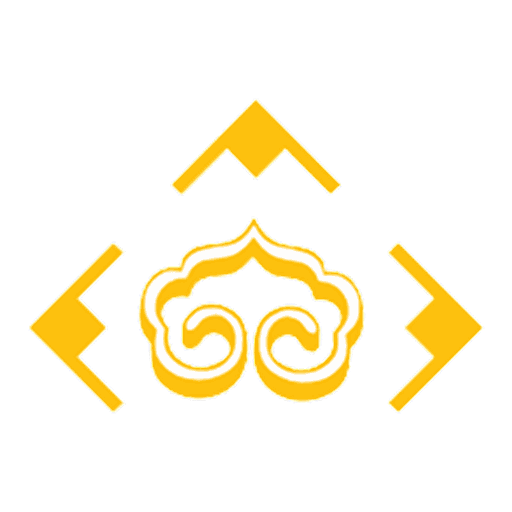
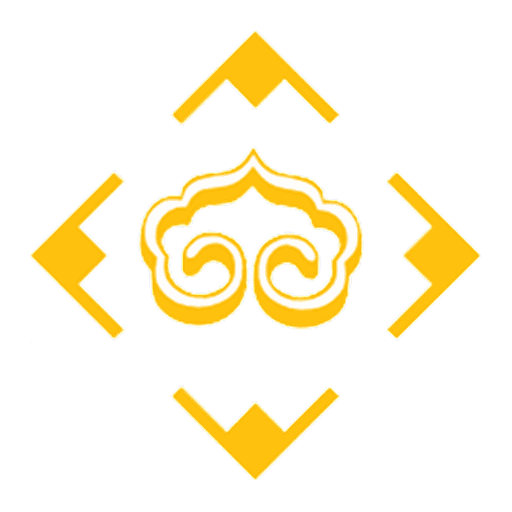
fix(brand): G3-03 biểu tượng PMH đủ hình thoi (hết bị cắt góc dưới ở sidebar)
Bản cũ cắt ngay trên chữ 'Phu My Hung' nên mất góc dưới của hình thoi, trông
như logo bị cắt. Dựng lại từ logo gốc 1920px: góc dưới = lật dọc góc trên quanh
tâm hình thoi (góc thật bị chữ che). Sinh lại emblem png/webp + favicon/icon
cùng nguồn. Sidebar 32x32, card đăng nhập hẹp 64px.

Kiểm: vitest brand-logo.test (mới — kích thước khai trong code khớp IHDR file,
emblem gần vuông; đỏ với ảnh cũ), app-shell.test, auth-ux.test.

Claude-Session: https://claude.ai/code/session_01DnG5SNKResTWi3MMKEHPDb

Changed region(s): [[0.0625, 0.0625, 0.7188, 0.9375], [0.75, 0.3438, 0.9375, 0.8125]]

diff --git a/web/src/ui/brand-logo.test.tsx b/web/src/ui/brand-logo.test.tsx
@@ -1,0 +1,35 @@
+import { readFileSync } from 'node:fs';
+import { join } from 'node:path';
+import type { ReactElement } from 'react';
+import { render } from '@testing-library/react';
+import { describe, expect, it } from 'vitest';
+import { BrandEmblem, BrandLogo } from './brand-logo';
+
+/** Kích thước thật đọc từ khối IHDR của PNG (byte 16..23). */
+function pngSize(file: string): { width: number; height: number } {
+  const buf = readFileSync(join(__dirname, '../../public/brand', file));
+  return { width: buf.readUInt32BE(16), height: buf.readUInt32BE(20) };
+}
+
+function imgOf(ui: ReactElement): HTMLImageElement {
+  return render(ui).container.querySelector('img')!;
+}
+
+describe('ảnh thương hiệu', () => {
+  // width/height khai trong code giữ chỗ trước khi ảnh về; lệch với file thật thì ảnh bị méo.
+  it.each([
+    ['pmh-emblem.png', <BrandEmblem key="e" alt="" />],
+    ['pmh-logo.png', <BrandLogo key="l" alt="" />],
+  ] as const)('%s: width/height khai trong code khớp file', (file, ui) => {
+    const img = imgOf(ui);
+    const real = pngSize(file);
+    expect(Number(img.getAttribute('width'))).toBe(real.width);
+    expect(Number(img.getAttribute('height'))).toBe(real.height);
+  });
+
+  // Biểu tượng là hình thoi đủ bốn góc nên gần vuông; bản cắt mất góc dưới thì dẹt hẳn.
+  it('biểu tượng gần vuông (đủ góc dưới của hình thoi)', () => {
+    const { width, height } = pngSize('pmh-emblem.png');
+    expect(Math.abs(width - height) / height).toBeLessThan(0.05);
+  });
+});

diff --git a/web/src/ui/brand-logo.tsx b/web/src/ui/brand-logo.tsx
@@ -9,7 +9,7 @@
  * nghe tên hai lần.
  */
 const LOGO = { base: '/brand/pmh-logo', width: 480, height: 354 };
-const EMBLEM = { base: '/brand/pmh-emblem', width: 256, height: 178 };
+const EMBLEM = { base: '/brand/pmh-emblem', width: 191, height: 192 };
 
 function BrandPicture({
   asset,
@@ -43,7 +43,10 @@ export function BrandLogo(props: { alt: string; className?: string; lazy?: boole
   return <BrandPicture asset={LOGO} {...props} />;
 }
 
-/** Chỉ biểu tượng vàng, không chữ: chỗ hẹp (sidebar, đầu card trên điện thoại). */
+/**
+ * Chỉ biểu tượng vàng, không chữ: chỗ hẹp (sidebar, đầu card trên điện thoại). Hình thoi phải
+ * đủ bốn góc: thiếu góc dưới thì nhìn như logo bị cắt.
+ */
 export function BrandEmblem(props: { alt: string; className?: string; lazy?: boolean }) {
   return <BrandPicture asset={EMBLEM} {...props} />;
 }

diff --git a/web/src/css/base.css b/web/src/css/base.css
@@ -310,7 +310,7 @@ a.linkbtn.sm {
 }
 /* Biểu tượng PMH vàng trên sidebar tối ở cả hai theme (Q-19); khung cố định để chữ "IMS" không
    nhảy khi ảnh chưa về. */
-.brand-emblem { flex: none; display: block; width: 38px; height: 26px; }
+.brand-emblem { flex: none; display: block; width: 32px; height: 32px; }
 .brand-emblem img { display: block; width: 100%; height: 100%; object-fit: contain; }
 .nav-label {
   font-size: var(--fs-2xs);

diff --git a/web/src/css/auth.css b/web/src/css/auth.css
@@ -102,7 +102,7 @@
   font-weight: 700;
   letter-spacing: -0.01em;
 }
-.auth-emblem img { display: block; width: 72px; height: auto; }
+.auth-emblem img { display: block; width: 64px; height: auto; }
 @media (max-width: 720px) {
   .auth { grid-template-columns: minmax(0, 1fr); }
   .auth-panel { display: none; }
